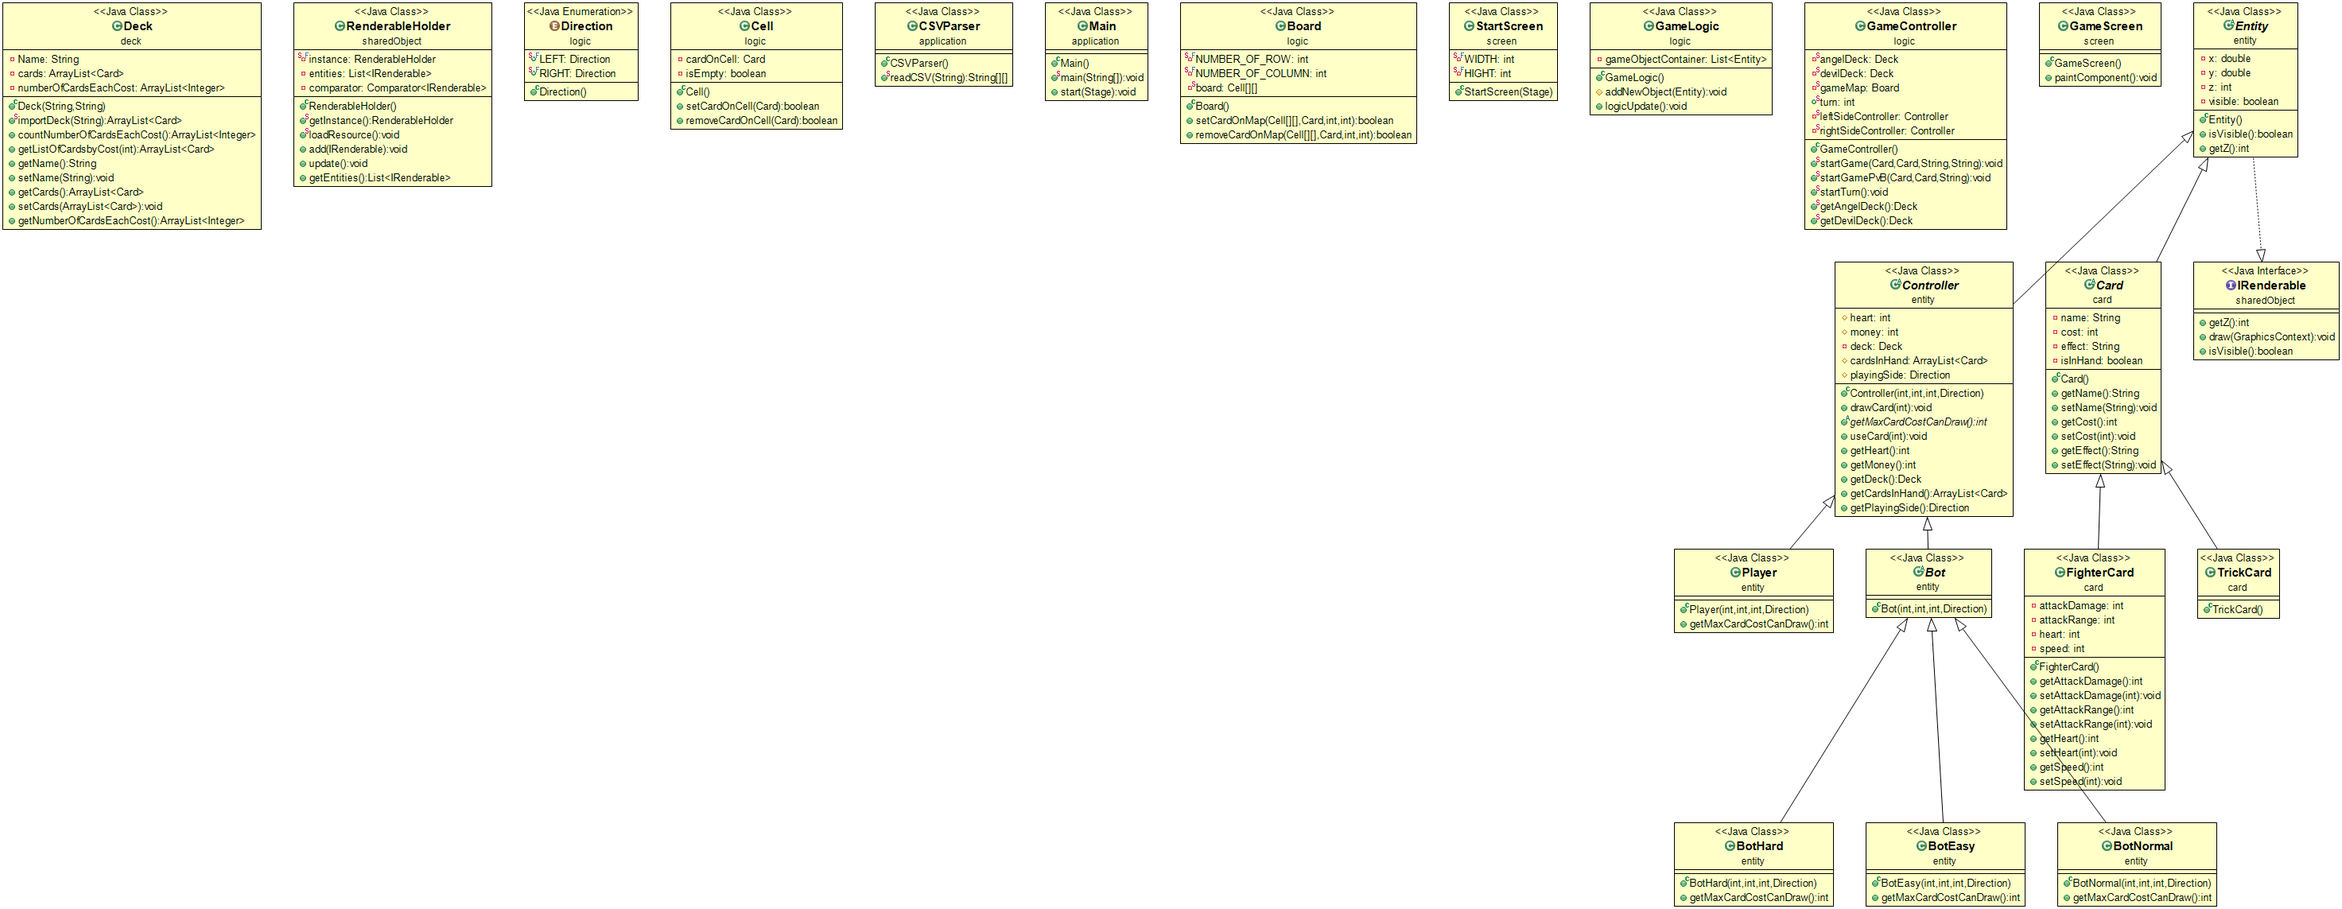
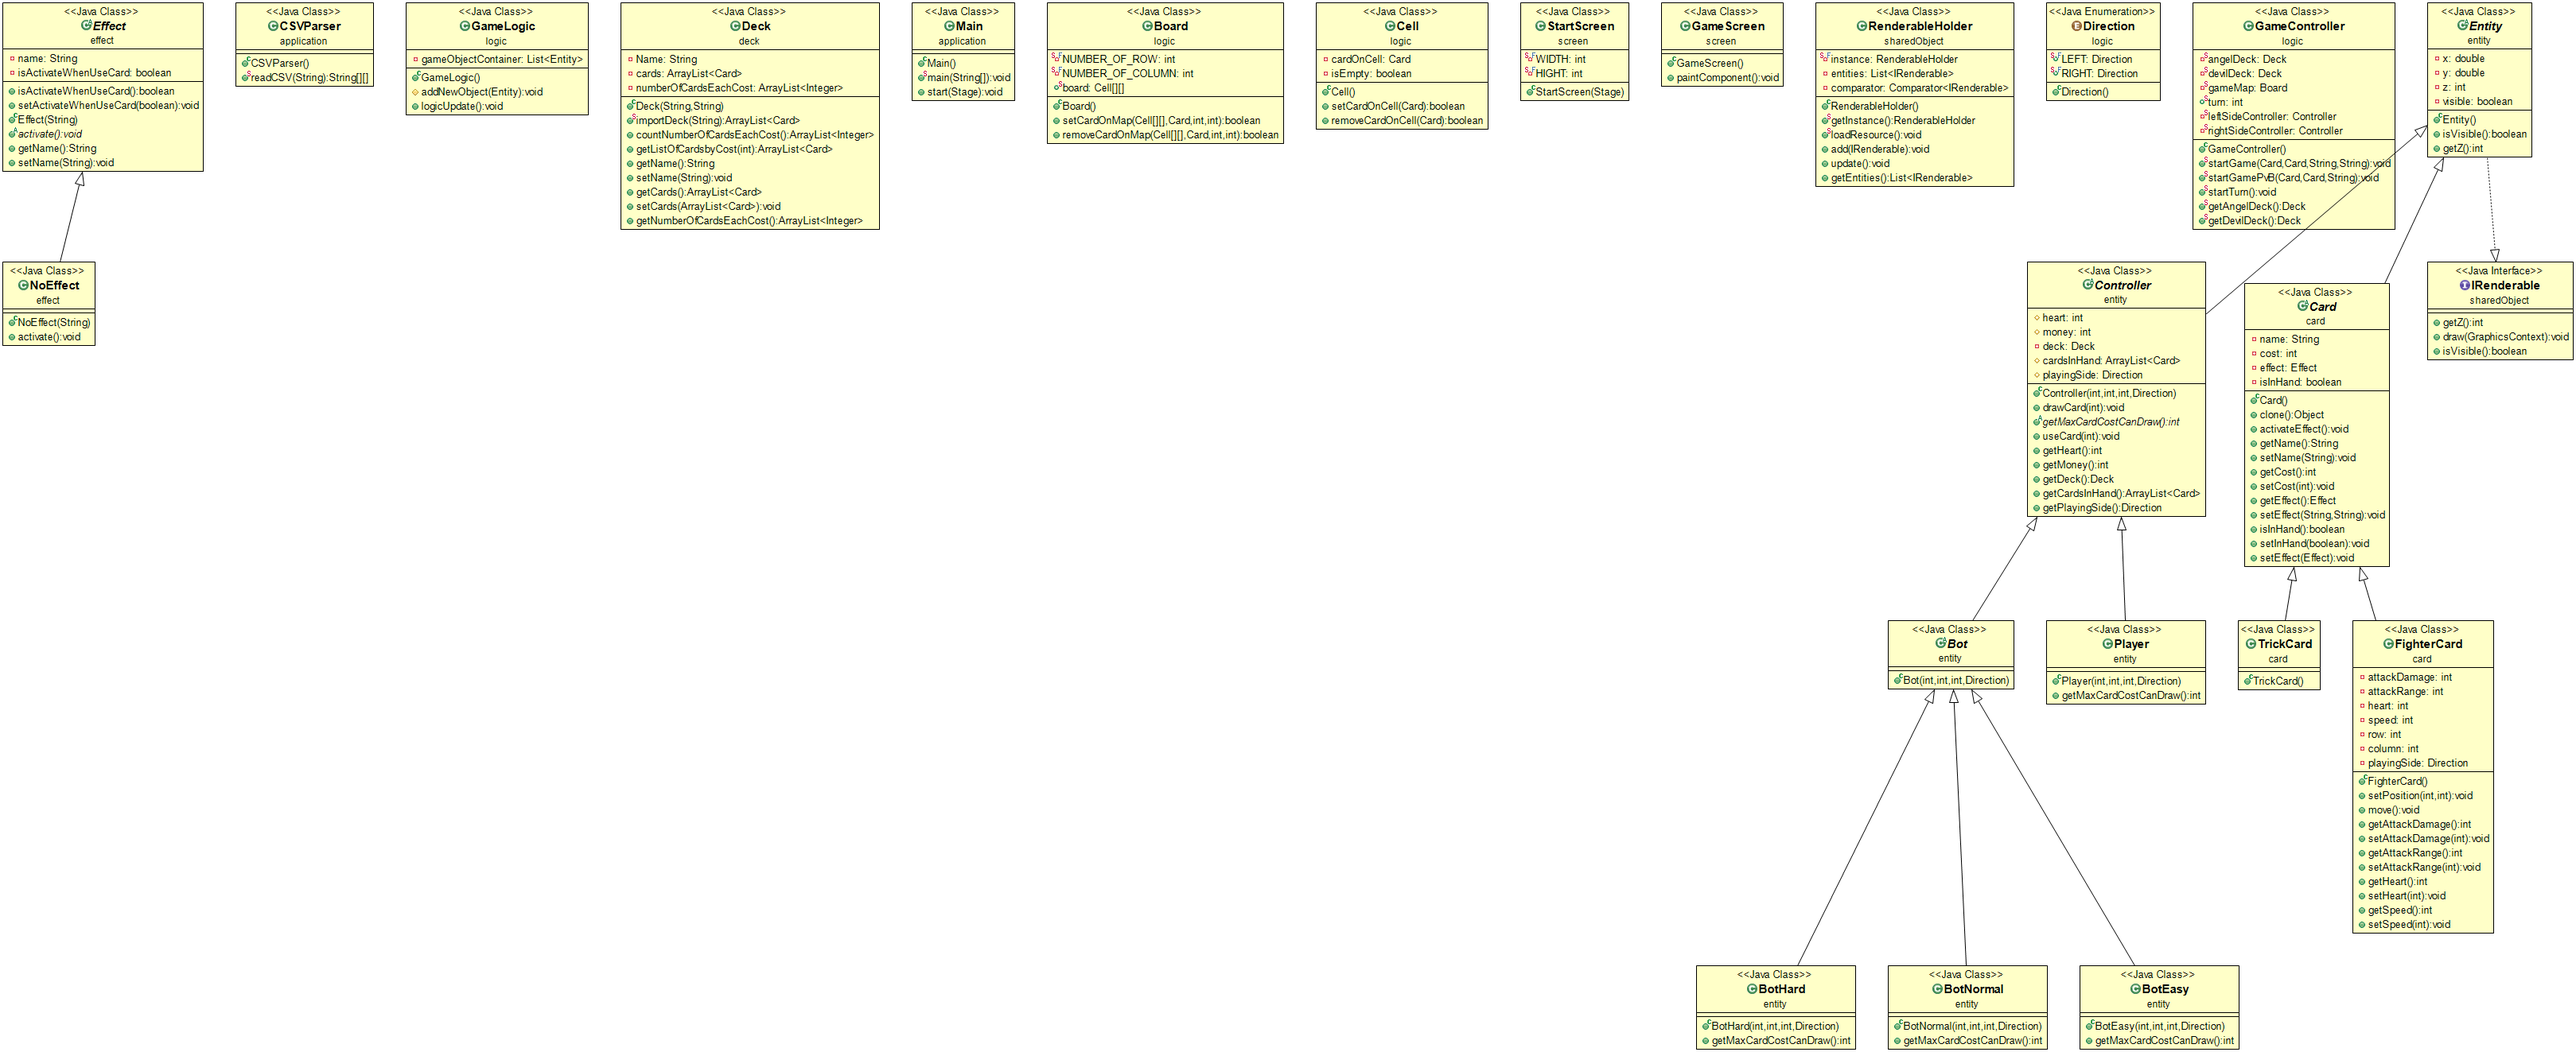
Update card can move

Changed region(s): [[0.0, 0.0, 0.9997, 1.0]]

diff --git a/src/logic/Board.java b/src/logic/Board.java
@@ -5,17 +5,23 @@ import card.Card;
 public class Board {
 	private static final int NUMBER_OF_ROW = 5;
 	private static final int NUMBER_OF_COLUMN = 9;
-	private static Cell[][] board;
+	public static Cell[][] board;
 
 	public Board() {
 		board = new Cell[NUMBER_OF_ROW][NUMBER_OF_COLUMN];
+		for (int c = 0; c < NUMBER_OF_COLUMN; c++) {
+			for (int r = 0; r < NUMBER_OF_ROW; r++) {
+				board[r][c] = new Cell();
+			}
+		}
+
 	}
 
-	public boolean setCardOnMap(Cell[][] cellMap, Card card, int row, int column) {
-		return cellMap[row][column].setCardOnCell(card);
+	public boolean setCardOnMap(Cell[][] board, Card card, int row, int column) {
+		return board[row][column].setCardOnCell(card);
 	}
-	
-	public boolean removeCardOnMap(Cell[][] cellMap, Card card, int row, int column) {
-		return cellMap[row][column].removeCardOnCell(card);
+
+	public boolean removeCardOnMap(Cell[][] board, Card card, int row, int column) {
+		return board[row][column].removeCardOnCell(card);
 	}
 }

diff --git a/src/card/Card.java b/src/card/Card.java
@@ -3,6 +3,7 @@ package card;
 import effect.Effect;
 import effect.NoEffect;
 import entity.Entity;
+import logic.Direction;
 
 public abstract class Card extends Entity implements Cloneable {
 	private String name;
@@ -17,7 +18,7 @@ public abstract class Card extends Entity implements Cloneable {
 			throw new InternalError(e.toString());
 		}
 	}
-	
+
 	public void activateEffect() {
 		effect.activate();
 	}
@@ -43,10 +44,22 @@ public abstract class Card extends Entity implements Cloneable {
 	}
 
 	public void setEffect(String name, String type) {
-		switch(type) {
-		case(""):
+		switch (type) {
+		case (""):
 			this.effect = new NoEffect(name);
 		}
+	}
+
+	public boolean isInHand() {
+		return isInHand;
+	}
+
+	public void setInHand(boolean isInHand) {
+		this.isInHand = isInHand;
+	}
+
+	public void setEffect(Effect effect) {
+		this.effect = effect;
 	}
 
 }

diff --git a/src/card/FighterCard.java b/src/card/FighterCard.java
@@ -1,10 +1,30 @@
 package card;
 
+import logic.Direction;
+
 public class FighterCard extends Card {
 	private int attackDamage;
 	private int attackRange;
 	private int heart;
 	private int speed;
+	private int row;
+	private int column;
+	private Direction playingSide;
+
+	public void setPosition(int row, int column) {
+		this.row = row;
+		this.column = column;
+	}
+
+	public void move() {
+		switch (playingSide) {
+		case LEFT:
+			column++;
+			//TODO if end of board -> attack controller, remove card
+		case RIGHT:
+			column--;
+		}
+	}
 
 	public int getAttackDamage() {
 		return attackDamage;

diff --git a/src/entity/Controller.java b/src/entity/Controller.java
@@ -33,6 +33,7 @@ public abstract class Controller extends Entity {
 			// random select index of card that have this cost
 			int indexOfCard = rand.nextInt((getDeck().getNumberOfCardsEachCost()).get(costOfCard));
 			Card card = (Card) getDeck().getListOfCardsbyCost(costOfCard).get(indexOfCard).clone();
+			card.setPlayingSide(playingSide);
 			cardsInHand.add(card);
 			// TODO sleep()
 		}

diff --git a/src/application/Main.java b/src/application/Main.java
@@ -2,6 +2,7 @@ package application;
 
 import javafx.application.Application;
 import javafx.stage.Stage;
+import logic.Board;
 import logic.GameController;
 import screen.StartScreen;
 
@@ -9,6 +10,7 @@ public class Main extends Application {
 	public static void main(String[] args) {
 		//1280x720
 		launch(args);
+
 	}
 
 	@Override

diff --git a/src/deck/Deck.java b/src/deck/Deck.java
@@ -33,6 +33,7 @@ public class Deck {
 				card.setCost(Integer.parseInt(deckData[i][4]));
 				card.setSpeed(Integer.parseInt(deckData[i][5]));
 				card.setAttackRange(Integer.parseInt(deckData[i][6]));
+				//TODO
 				card.setEffect(deckData[i][7]);
 				deck.add(card);
 
